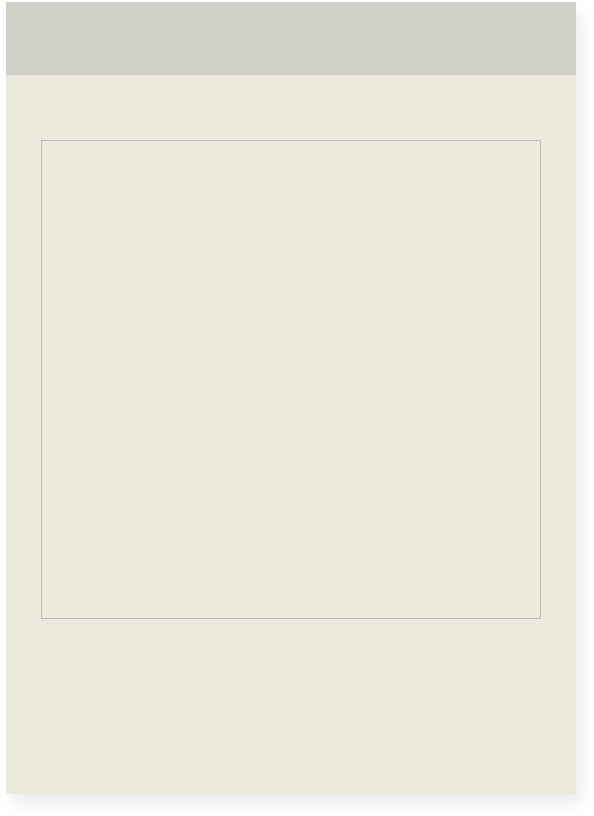
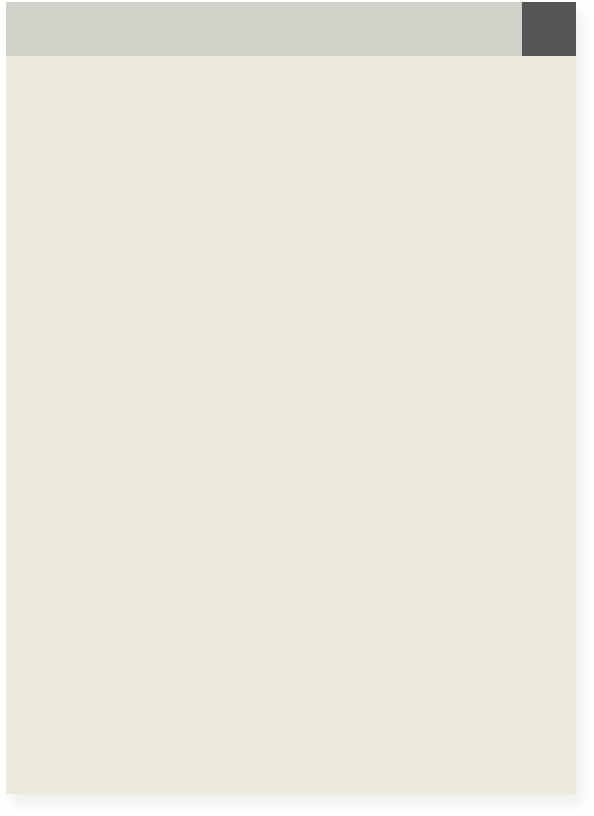
Add second popup
Add second popup.

Changed region(s): [[0.0, 0.0, 0.9697, 0.0919]]

diff --git a/html/popUp_2.html b/html/popUp_2.html
@@ -1,5 +1,47 @@
 <div id = "popUp_2">
 	<div class = "inPopup">
-		hi
+		<image src = "../image/popup/2/applyPopup2_Label_1.png" alt = "applyPopup1_Label"/>
+		<div class = "popUP_2_inputBox">
+			<form>
+				<!-- 내 번호 -->
+				<image src = "../image/popup/2/applyPopup2_InputLabel_1.png" style = "margin-right: 32px;" alt = "applyPopup2_InputLabel_1"/>
+				<input type = 'text' id = 'myPhone_1' style = 'width: 92px; height: 36px;' />
+				-
+				<input type = 'text' id = 'myPhone_2' style = 'width: 92px; height: 36px;' />
+				-
+				<input type = 'text' id = 'myPhone_3' style = 'width: 92px; height: 36px;' /><br />
+
+				<!-- 엄마 번호 -->
+				<image src = "../image/popup/2/applyPopup2_InputLabel_2.png" style = "margin-left: -2px; margin-right: 16px; margin-top: 18px;" alt = "applyPopup2_InputLabel_2"/>
+				<input type = 'text' id = 'momPhone_1' style = 'width: 92px; height: 36px;' />
+				-
+				<input type = 'text' id = 'momPhone_2' style = 'width: 92px; height: 36px;' />
+				-
+				<input type = 'text' id = 'momPhone_3' style = 'width: 92px; height: 36px;' /><br />
+
+				<!-- 라벨 -->
+				<image src = "../image/popup/2/applyPopup2_InputCautionLabel_1.png" style = "margin-top: 18px; margin-left: 88px;" alt = "applyPopup2_InputCautionLabel_1"/>
+				<image src = "../image/popup/2/applyPopup2_Line.png" style = "margin-top: 18px;" alt = "applyPopup2_Line"/>
+
+				<!-- 메시지 -->
+				<image src = "../image/popup/2/applyPopup2_InputLabel_3.png" style = "vertical-align: top; margin-left: -2px; margin-right: 38px; margin-top: 28px;" alt = "applyPopup2_InputLabel_3"/>
+				<textarea style = "margin-top: 28px; width: 318px; height: 108px; resize: none;">엄마에게 전달할 메시지를 적어보세요. (아직 사라지게 안만들었습니다.)</textarea>
+				<image src = "../image/popup/2/applyPopup2_Line.png" style = "margin-top: 24px;" alt = "applyPopup2_Line"/>
+
+				<!-- 매장선택 -->
+				<image src = "../image/popup/2/applyPopup2_InputLabel_4.png" style = "margin-left: -2px; margin-right: 18px; margin-top: 28px;" alt = "applyPopup2_InputLabel_4"/>
+				<select style = "width: 328px; height: 38px; resize: none;">
+					<option>form의 디자인 개선 및 밸류값 주입 필요.</option>
+					<option>방배동 코디센 매장 1.</option>
+					<option>방배동 코디센 매장 2.</option>
+					<option>방배동 코디센 매장 3.</option>
+				</select>
+
+				<!-- 라벨 -->
+				<image src = "../image/popup/2/applyPopup2_InputCautionLabel_2.png" style = "vertical-align: middle; margin-top: -16px; margin-left: 88px; margin-right: 16px;" alt = "applyPopup2_InputCautionLabel_2"/>
+				<a href = "#"><image src = "../image/popup/2/applyPopup2_SelectButton.png" style = "margin-top: 12px;" alt = "applyPopup2_SelectButton"/></a>
+			</form>
+		</div>
+		<a id = "applyPopup2_sendButton" href = "#"><image src = "../image/popup/2/applyPopup2_send.png" style = "margin-top: 36px;" alt = "applyPopup2_send"/></a>
 	</div>
 </div>

diff --git a/html/popUp_1.html b/html/popUp_1.html
@@ -1,23 +1,29 @@
 <div id = "popUp_1">
 	<div class = "inPopup">
+		<!-- 라벨 -->
 		<image src = "../image/popup/1/applyPopup1_Label.png" alt = "applyPopup1_Label"/>
 		<br /><br />
+		<!-- 상품이미지 -->
 		<a href = "#" id = "popUp_1_gi"><image src = "../image/popup/1/applyPopup1_gift_1.png" class = "popUP_1_gift" alt = "applyPopup1_gift_1"/></a>
 		<a href = "#" id = "popUp_2_gi"><image src = "../image/popup/1/applyPopup1_gift_2.png" class = "popUP_1_gift" alt = "applyPopup1_gift_2"/></a>
 		<br />
+		<!-- 이름 및 지원률 -->
 		<div class = "popUP_1_giftLabelBox">
 			<image src = "../image/popup/1/applyPopup1_GiftLabel_1.png" style = "margin-left: 24px; margin-right: 16px;" alt = "applyPopup1_GiftLabel_1"/>현재 경품 지원률 000명
 			<image src = "../image/popup/1/applyPopup1_GiftLabel_2.png" style = "margin-left: 24px; margin-right: 32px;" alt = "applyPopup1_GiftLabel_2"/>현재 경품 지원률 000명
 		</div>
 		<br />
+		<!-- 상품이미지 -->
 		<a href = "#" id = "popUp_3_gi"><image src = "../image/popup/1/applyPopup1_gift_3.png" class = "popUP_1_gift" alt = "applyPopup1_gift_3"/></a>
 		<a href = "#" id = "popUp_4_gi"><image src = "../image/popup/1/applyPopup1_gift_4.png" class = "popUP_1_gift" alt = "applyPopup1_gift_4"/></a><br />
+		<!-- 이름 및 지원률 -->
 		<div class = "popUP_1_giftLabelBox">
 			<image src = "../image/popup/1/applyPopup1_GiftLabel_3.png" style = "margin-left: 24px; margin-right: 56px;" alt = "applyPopup1_GiftLabel_3"/>현재 경품 지원률 000명
 			<image src = "../image/popup/1/applyPopup1_GiftLabel_4.png" style = "margin-left: 24px; margin-right: 56px;" alt = "applyPopup1_GiftLabel_4"/>현재 경품 지원률 000명
 		</div>
+		<!-- 선택 테두리 -->
 		<image id = "popUp_gift_border" style = "display: none; position: absolute;" src = "../image/popup/1/applyPopup1_border.png" alt = "applyPopup1_border"/>
-
+		<!-- 선택하기 -->
 		<a id = "applyPopup1_selectButton" href = "#"><image src = "../image/popup/1/applyPopup1_select.png" style = "margin-top: 36px;" alt = "applyPopup1_select"/></a>
 	</div>
 </div>

diff --git a/js/ef.js b/js/ef.js
@@ -5,7 +5,7 @@ $(document).ready(function() {
 	$('#applyButton').click(function(){
 		$('#popUp').load('../html/popUp_1.html', function() {
 			$('#popUp').modal();
-			$('#closeModal').css('top', '-275px' );
+			$('#closeModal').css('top', '-305px' );
 			$('#closeModal').css('right', '-40px' );
 
 			// '데이트 신청하기' 팝업에서 이미지 클릭 시
@@ -35,7 +35,17 @@ $(document).ready(function() {
 				$('#popUp').empty();
 				$('#popUp').load('../html/popUp_2.html', function() {
 					$('#popUp').modal();
-					
+					$('#closeModal').css('top', '-391px' );
+					$('#closeModal').css('right', '-46px' );
+					$('#applyPopup2_sendButton').click(function(){
+						$('#popUp').empty();
+						$('#popUp').load('../html/popUp_3.html', function() {
+							$('#popUp').modal();
+							$('#closeModal').css('top', '-391px' );
+							$('#closeModal').css('right', '-46px' );
+							
+						});
+					});
 				});
 			});
 			

diff --git a/style/style.css b/style/style.css
@@ -56,7 +56,7 @@
 	left: 50%;
 	position:absolute;
 	text-align: center;
-	margin-top: -290px;
+	margin-top: -320px;
 	margin-left: -300px;
 }
 
@@ -74,12 +74,35 @@
 #popUp_2{
 	width: 594px;
 	height: 816px;
-	background-image: url("../image/popup/1/applyPopup2_BG.png");
+	background-image: url("../image/popup/2/applyPopup2_BG.png");
 	padding: 0px;
 	left: 50%;
 	position:absolute;
 	text-align: center;
-	margin-top: -290px;
+	margin-top: -408px;
+	margin-left: -300px;
+}
+
+.popUP_2_inputBox{
+	width: 452px;
+	height: 447px;
+	background-image: url("../image/popup/2/applyPopup2_BG2.png");
+	margin-left: 41px;
+	margin-top: 24px;
+	padding-top: 32px;
+	padding-left: 48px;
+	text-align: left;
+}
+
+#popUp_3{
+	width: 594px;
+	height: 733px;
+	background-image: url("../image/popup/3/applyPopup3_BG.png");
+	padding: 0px;
+	left: 50%;
+	position:absolute;
+	text-align: center;
+	margin-top: -366px;
 	margin-left: -300px;
 }
 

diff --git a/html/popUp_3.html b/html/popUp_3.html
@@ -1,0 +1,5 @@
+<div id = "popUp_3">
+	<div class = "inPopup">
+		
+	</div>
+</div>
